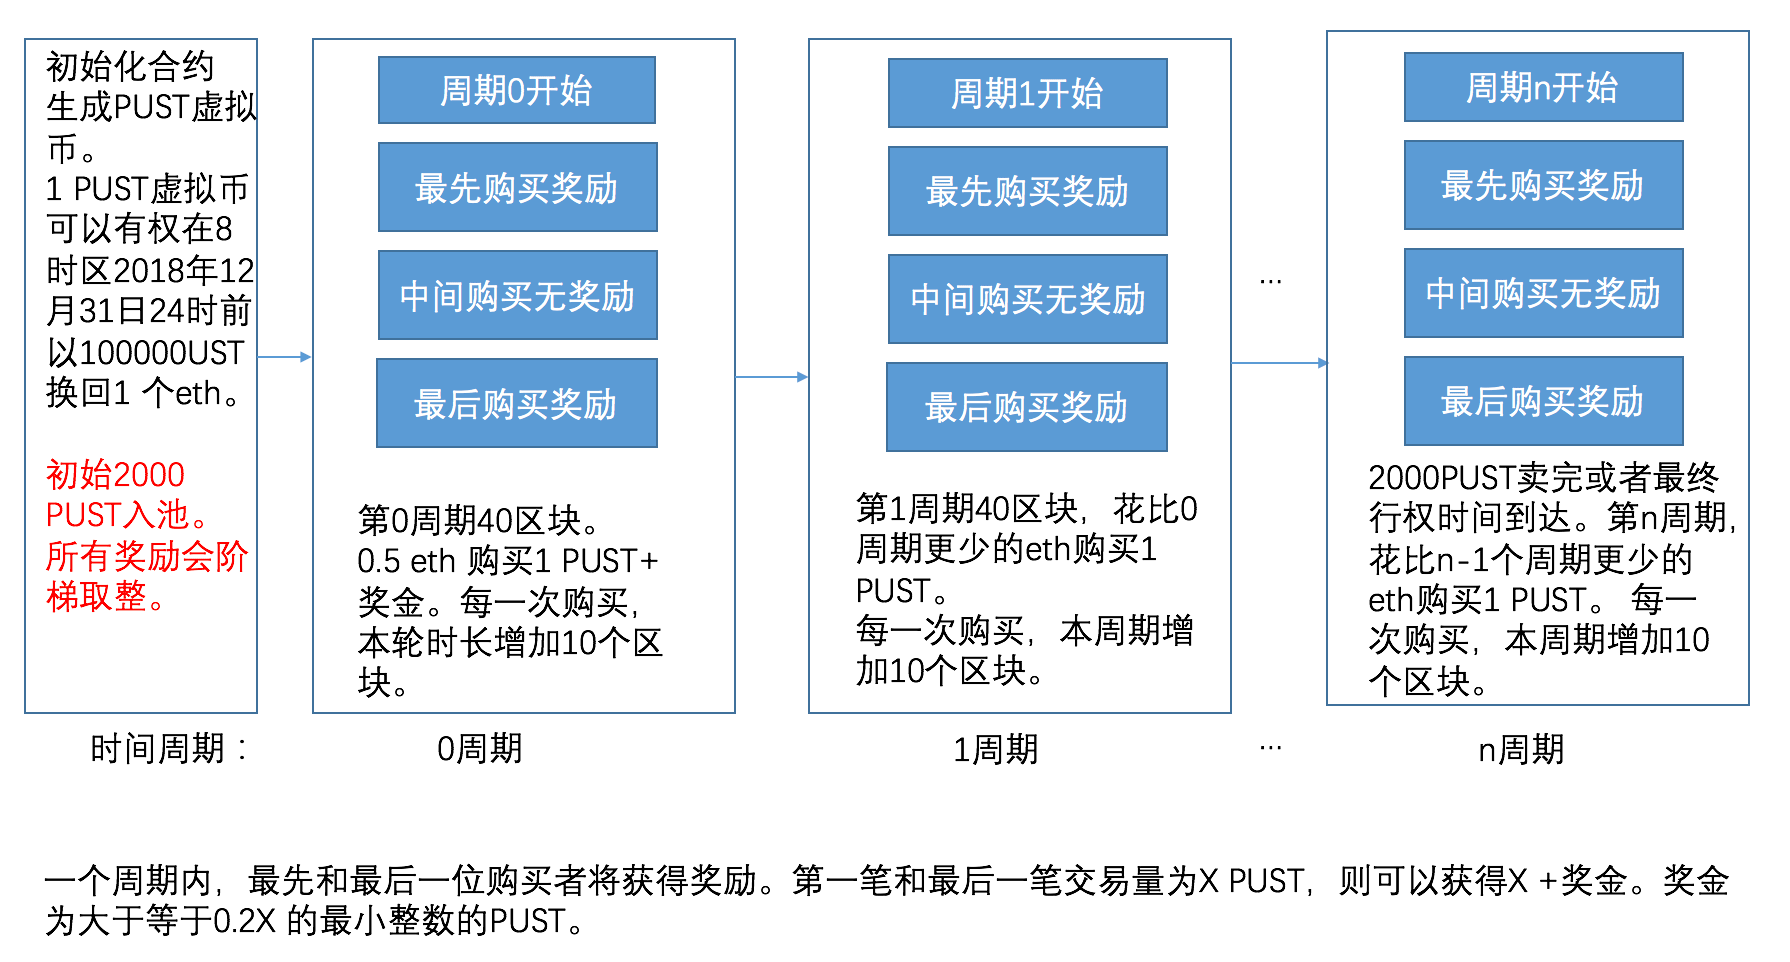
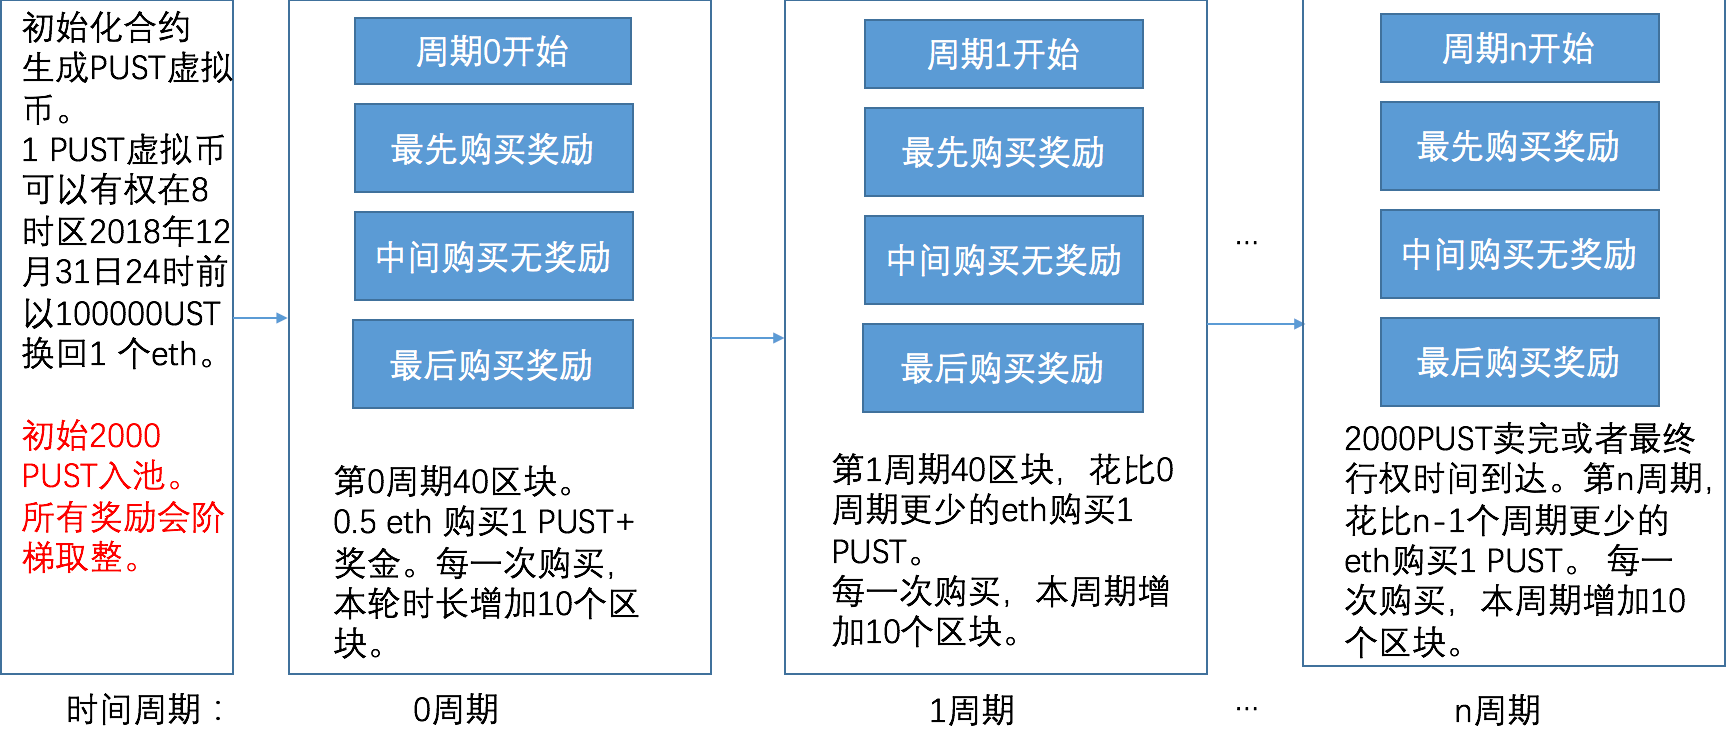
add “pust第三期”

diff --git a/src/components/PUST.vue b/src/components/PUST.vue
@@ -1,23 +1,23 @@
 <template>
     <div class="container pb-5 pust_wrap">
         <div class="h4  py-1 mt-5 text-primary text_center">
-            <div class="text_title py-2">UST价格下降保障合约</div>
+            <div class="text_title py-2">UST价格下降保障合约</div> 
          </div>
 
         <div class="text-center sm_left">
             <div class="row py-3 d-inline-block">
                 <select name="" class="select_pust mr-5" v-model="select_epoch">
-                    <option value="pustqr1">PUST第1期</option>
-                    <option value="pustqr2" selected>PUST第2期</option>
+                    <option :value="item.value" v-for="(item,index) in epochList"
+                    :key="'pust'+index">PUST第{{item.value}}期</option>
                 </select>
-                <span class="word_break">合约地址：{{epochAddress}}</span>
+                <span class="word_break">合约地址：{{selected.address}}</span>
             </div>
         </div>
         
         <div class="border p-2 py-3 border-secondary rounded">
             <div class="clearfix">
                 <div class="float-left">购买 PUST：</div>
-                <router-link to="/buy_pust" class="text-danger float-right">购买说明文档</router-link>
+                <router-link :to='"/buy_pust/"+selected.value' class="text-danger float-right">购买说明文档</router-link>
             </div>
             <p class="pt-2">当前区块号：<span v-text="blockNumber"></span></p>
             <p>当前周期数：<span v-text="epochNow"></span></p>
@@ -48,29 +48,33 @@
 
             <p class="text-secondary text-small">剩余不足1PUST的ETH会退回到打币钱包地址。</p>
             <p class="text-danger pt-2">
-                注意：用户的钱包地址不能是交易所钱包，不可以充值除eth之外的资产。PUST支持Kcash和PC版的钱包。                
+                注意：用户的钱包地址不能是交易所钱包，不可以充值除eth之外的资产。PUST支持Kcash和PC版的钱包。
+                <span v-html="selected.notice"></span>                
             </p>
         </div>
     
         <div class="py-5 text-center border-bottom">
             <div class="h6">打币合约地址：</div>
-            <div class="py-2 text-primary word_break" v-html="epochAddress"></div>
+            <div class="py-2 text-primary word_break" v-html="selected.address"></div>
             <div class="h6 py-1 qrcode_address">
-                <img src="../assets/images/pustqr1.png" alt="" v-if="select_epoch==='pustqr1'">
-                <img src="../assets/images/pustqr2.png" alt="" v-if="select_epoch==='pustqr2'">
+                <img src="../assets/images/pustqr1.png" alt="" v-if="select_epoch==='1'">
+                <img src="../assets/images/pustqr2.png" alt="" v-if="select_epoch==='2'">
+                <img src="../assets/images/pustqr3.png" alt="" v-if="select_epoch==='3'">
             </div>
             <div class="text-danger py-2">各期PUST不兼容，行权仅限当期购买地址</div>
         </div>     
              <div class="text-secondary">
                 <div class="clearfix pt-5">
                     <p class="h6 text-primary float-left">规则：</p>
-                    <router-link to="/usechain_pust" class="text-danger float-right">详细规则说明文档</router-link>            
+                    <router-link :to='"/usechain_pust/"+selected.value' class="text-danger float-right">详细规则说明文档</router-link>            
                 </div>
                 
                 <p>每一个PUST有权在北京时间2018.12.31日24时前，用
                     <span class="text-primary">100000UST</span>
                     换回1 ETH.</p>
-                <p class="py-3">1PUST起始价位0.5 ETH，每个周期40个区块。每一次购买本周期会延长10个区块。周期内最先确认的和最后确认的购买者奖励大于等于20%的最小整数个PUST。下一个周期，价格按曲线下降。</p>
+                <p class="py-3">1PUST起始价位0.5 ETH，每个周期40个区块。每一次购买本周期会延长10个区块。
+                    周期内最先确认的和最后确认的购买者奖励<span v-html="selected.num"></span>个PUST。
+                    下一个周期，价格按曲线下降。</p>
                 <p>本次共放出2000 PUST供购买。</p>
             </div>
            
@@ -80,6 +84,8 @@
         <div>
             <img src="../assets/images/pust.png" alt="" class="w-100">
         </div>
+        <p class="text-secondary py-3">一个周期内，最先和最后一位购买者将获得奖励。第一笔和最后一笔交易量为X PUST，则可以获得X +奖金。
+            奖金为<span v-html="selected.pustText"></span>的PUST</p>
         
         <div class="h6 text-secondary py-2"></div>
         <div class="py-3 row text-center">
@@ -96,8 +102,10 @@
 <script>
 import $ from 'jquery';
 import axios from "axios";
+import pustEpoch from '../assets/js/config';
 
 export default {
+    name: "PUST",    
     data(){
         return{
             blockNumber:'',//当前区块链id=>  0x5d7ed9=6127321
@@ -117,8 +125,9 @@ export default {
                 sec: '',
                 mini: '',
             },
-            epochAddress:'0xe8561c5a1e52e9ea12b17bd9168c230af9be766d',
-            select_epoch:'pustqr2',
+            epochList:pustEpoch,
+            select_epoch:pustEpoch[0].value,
+            selected:pustEpoch[0],
         }
     },
     watch:{
@@ -135,12 +144,9 @@ export default {
             var dateadd=date.getTime()+(lastblockn-_this.blockNumber)*15*1000;
             this.getFormatDate(new Date(dateadd));
         },
-        select_epoch(curVal,oldVal){      
-            if(curVal==='pustqr1'){
-                this.epochAddress='0x44433a29280b9Bec267b6d22b59BD32251652553'
-            }else if(curVal==='pustqr2'){
-                this.epochAddress='0xe8561c5a1e52e9ea12b17bd9168c230af9be766d'
-            }
+        select_epoch(curVal){      
+            var rank=this.epochList.length-parseInt(curVal);
+            this.selected=this.epochList[rank];
             this.recomputed();            
         },
     },
@@ -148,14 +154,15 @@ export default {
         price:function(){
             var diffvalue=(this.blockNumber-this.lastEpochBlock)/this.initEpoch;
             var epoch=this.epochLast+parseInt(diffvalue) + 1;
-            var price=0.4*0.9995**epoch+0.1*0.99993**epoch;
+            var rate=parseInt(this.selected.epochRate);
+            var price=0.4*0.9995**(epoch+rate)+0.1*0.99993**(epoch+rate);
             this.epochNow=epoch;
             this.priceval=price;
 
             return (this.blockNumber && this.lastEpochBlock)?price:0.5;
         },
         remainPUST:function(){
-            return this.topTotalSupply-this.totalSupply
+            return (this.topTotalSupply-this.totalSupply)/parseInt(this.selected.pustRate);
         },
         ethnum:function(){
             var showVal=this.pustnum*this.priceval;
@@ -181,23 +188,23 @@ export default {
             }).catch(function(err){ console.log(err) })
 
             //最后购买周期
-            axios.get('https://api.etherscan.io/api?module=proxy&action=eth_call&to='+_this.epochAddress+'&data=0xdc57d553&tag=latest&apikey=8W1ZM4YHDMESNWMS12VBY8CKCVN723V7EM')
+            axios.get('https://api.etherscan.io/api?module=proxy&action=eth_call&to='+_this.selected.address+'&data=0xdc57d553&tag=latest&apikey=8W1ZM4YHDMESNWMS12VBY8CKCVN723V7EM')
                 .then(function(res){
                     _this.epochLast=parseInt(res.data.result);
             }).catch(function(err){ console.log(err) })
 
             //最后一次购买的区块链id
-            axios.get('https://api.etherscan.io/api?module=proxy&action=eth_call&to='+_this.epochAddress+'&data=0xc2362dd5&tag=latest&apikey=8W1ZM4YHDMESNWMS12VBY8CKCVN723V7EM')
+            axios.get('https://api.etherscan.io/api?module=proxy&action=eth_call&to='+_this.selected.address+'&data=0xc2362dd5&tag=latest&apikey=8W1ZM4YHDMESNWMS12VBY8CKCVN723V7EM')
                 .then(function(res){
                     _this.lastEpochBlock=parseInt(res.data.result);
             }).catch(function(err){ console.log(err) }) 
             
             //剩余供给PUST数
-            axios.get('https://api.etherscan.io/api?module=proxy&action=eth_call&to='+_this.epochAddress+'&data=85c09f26&tag=latest&apikey=8W1ZM4YHDMESNWMS12VBY8CKCVN723V7EM')
+            axios.get('https://api.etherscan.io/api?module=proxy&action=eth_call&to='+_this.selected.address+'&data=85c09f26&tag=latest&apikey=8W1ZM4YHDMESNWMS12VBY8CKCVN723V7EM')
                 .then(function(res){
                     _this.topTotalSupply=parseInt(res.data.result);
             }).catch(function(err){ console.log(err) }) 
-            axios.get('https://api.etherscan.io/api?module=proxy&action=eth_call&to='+_this.epochAddress+'&data=18160ddd&tag=latest&apikey=8W1ZM4YHDMESNWMS12VBY8CKCVN723V7EM')
+            axios.get('https://api.etherscan.io/api?module=proxy&action=eth_call&to='+_this.selected.address+'&data=18160ddd&tag=latest&apikey=8W1ZM4YHDMESNWMS12VBY8CKCVN723V7EM')
                 .then(function(res){
                     _this.totalSupply=parseInt(res.data.result);
             }).catch(function(err){ console.log(err) }) 

diff --git a/src/components/PustUsechain.vue b/src/components/PustUsechain.vue
@@ -16,7 +16,9 @@
             <p>行权方式见后续章节《行权方式》。</p>
             <p>下图描述了PUST购买流程。</p>
          </div>
-         <div><img src="../assets/images/pust.png" class="pic75" alt=""></div>
+         <div class="p-3"><img src="../assets/images/pust.png" class="pic75" alt=""></div>
+         <p class="text-secondary">一个周期内，最先和最后一位购买者将获得奖励。第一笔和最后一笔交易量为X PUST，则可以获得X +奖金。
+            奖金为<span v-html="epochNow.pustText"></span>的PUST</p>
 
         <div class="h5 pt-4"><span>1.1</span> 总量</div>
         <p class="text-secondary">本次发行PUST总量 2000枚，卖完或到最后行权时间终止。</p>
@@ -29,8 +31,12 @@
         <p class="text-secondary">以100000 UST，换回1个ETH。</p>
 
         <div class="h5 pt-4"><span>1.4</span> 购买PUST智能合约地址</div>
-        <p class="text-secondary pb-2">0xe8561c5a1e52e9ea12b17bd9168c230af9be766d</p>
-        <div class="pustqr"><img src="../assets/images/pustqr2.png" alt=""></div>
+        <p class="text-secondary pb-2" v-html="epochNow.address"></p>
+        <div class="pustqr">
+            <img src="../assets/images/pustqr1.png" alt="" v-if="routePustqr==='1'">
+            <img src="../assets/images/pustqr2.png" alt="" v-if="routePustqr==='2'">
+            <img src="../assets/images/pustqr3.png" alt="" v-if="routePustqr==='3'||routePustqr==='0'">
+        </div>
 
         <div class="h5 pt-5"><span>1.5</span> 名词解释</div>
         
@@ -43,10 +49,11 @@
         
         <div class="h4 pt-5"><span>2</span> 奖励方式</div>
 
-        <p class="text-secondary pt-2">每一个周期内，最先和最后购买者，将获得20%的奖励，按大于等于20%的最小整数发放。最后购买者的奖励会在下一个周期中计算。由于采用整数奖励，所以奖励会以阶梯方式增长。</p>
+        <p class="text-secondary pt-2">每一个周期内，最先和最后购买者，将获得20%的奖励<span v-html="epochNow.num2"></span>。
+            最后购买者的奖励会在下一个周期中计算。由于采用整数奖励，所以奖励会以阶梯方式增长。</p>
         <p class="text-secondary py-1">如果奖励数目超过了剩余供应，超出的部分不奖励。</p>
 
-        <div class="pt-2"><img src="../assets/images/pustusechain3.png" class="pic50" alt=""></div>
+        <div class="pt-2"><img src="../assets/images/reward.png" class="pic50" alt="" v-if="epochNow.rewardimg"></div>
 
         <div class="h4 pt-5"><span>3</span> 折扣方式</div>
         <p class="text-secondary py-2">PUST的价格，按如下的曲线，每个周期下降。</p>
@@ -111,7 +118,10 @@
 </template>
 
 <script>
+import pustEpoch from '../assets/js/config';
+
 export default {
+    name: "PustUsechain",    
     data(){
         return{
             tableList:[
@@ -145,7 +155,21 @@ export default {
                 {period:'3888',price:'0.133397'},
                 {period:'4032',price:'0.128657'},
                 {period:'4176',price:'0.1242'},
-            ]
+            ],
+            epochNow:'',
+            routePustqr:'',
+        }
+    },
+    created(){
+        var pustqr=this.$route.params.pustqr|| '0';
+        this.routePustqr=pustqr;
+        var pustqrNum=parseInt(pustqr);
+        var pustqrNow=pustEpoch.length-pustqrNum;
+
+        if(pustqr==='0'){
+            this.epochNow=pustEpoch[0];
+        }else{
+            this.epochNow=pustEpoch[pustqrNow];
         }
     }
 }

diff --git a/src/components/PustBuy.vue b/src/components/PustBuy.vue
@@ -23,7 +23,7 @@
         <p class="pt-4 py-2 text-primary">如上图所示，填入</p>
         <div class="text-secondary">
             <p>PUST 的合约地址：
-                <span class="text_black text_bold">0xe8561c5a1e52e9ea12b17bd9168c230af9be766d</span>
+                <span class="text_black text_bold" v-html="epochNow.address"></span>
             </p>
             <p>ETH数量：</p>
             <p>gwei：建议不要低于 5 Gwei</p>
@@ -45,7 +45,7 @@
         <div class="text-secondary">
             <p class="pt-4 py-2">如上图所示</p>
             <p>To Address填写PUST 的合约地址：</p>
-            <p class="text_black text_bold">0xe8561c5a1e52e9ea12b17bd9168c230af9be766d</p>
+            <p class="text_black text_bold" v-html="epochNow.address"></p>
             <p>ETH数量：</p>
             <p>gas：如没有计算，不能低于250000</p>
         </div>
@@ -59,6 +59,32 @@
          
     </div>
 </template>
+
+<script>
+import pustEpoch from '../assets/js/config';
+
+export default {
+    name: "PustBuy",    
+
+    data(){
+        return{
+            epochNow:'',
+        }
+    },
+    created(){
+        var pustqr=this.$route.params.pustqr|| '0';
+        var pustqrNum=parseInt(pustqr);
+        var pustqrNow=pustEpoch.length-pustqrNum;
+
+        if(pustqr==='0'){
+            this.epochNow=pustEpoch[0];
+        }else{
+            this.epochNow=pustEpoch[pustqrNow];
+        }
+    }
+}
+</script>
+
 
 <style scoped>
 img{

diff --git a/src/assets/js/config.js b/src/assets/js/config.js
@@ -1,0 +1,37 @@
+var pustEpoch=[
+    {
+        value:'3',                    
+        address:'0x07227AB560609efc6D45d953eE333A76f329A74B',
+        notice:'本期合约通证符号PUST12',
+        pustRate:'10000',
+        epochRate:'1000',
+        num:'20%',
+        num2:'',
+        rewardimg:false,
+        pustText:'0.2X'
+    },
+    {
+        value:'2',                    
+        address:'0xe8561c5a1e52e9ea12b17bd9168c230af9be766d',
+        notice:'',
+        pustRate:'1',
+        epochRate:'0',
+        num:'大于等于20%的最小整数',  
+        num2:'，按大于等于20%的最小整数发放',        
+        rewardimg:true,
+        pustText:'大于等于0.2X的最小整数的'                      
+    },
+    {
+        value:'1',
+        address:'0x44433a29280b9Bec267b6d22b59BD32251652553',
+        notice:'',
+        pustRate:'1',
+        epochRate:'0',
+        num:'大于等于20%的最小整数', 
+        num2:'，按大于等于20%的最小整数发放',                
+        rewardimg:true,
+        pustText:'大于等于0.2X的最小整数的'                                                           
+    },
+];
+
+export default pustEpoch;

diff --git a/src/components/Home.vue b/src/components/Home.vue
@@ -108,7 +108,7 @@
          <!-- 评级 -->
         <div class="justify-content-center">
           <div class="m-auto" :style="{'width': device==='pc'?'80%':'100%'}">
-            <a href="https://www.odaily.com/post/5133336" target="_blank" class="d-block">
+            <a href="http://www.bcpress.com/2018/08/21/65805/" target="_blank" class="d-block">
               <img src="../assets/images/banner1.jpg" class="w-100" alt="">
             </a>
             <div class="wow flipInX my-1 section_rate">

diff --git a/src/router/index.js b/src/router/index.js
@@ -26,12 +26,12 @@ export default new Router({
       component: PUST
     },
     {
-      path: '/buy_pust',
+      path: '/buy_pust/:pustqr?',
       name: 'PustBuy',
       component: PustBuy
     },
     {
-      path: '/usechain_pust',
+      path: '/usechain_pust/:pustqr?',
       name: 'PustUsechain',
       component: PustUsechain
     },
